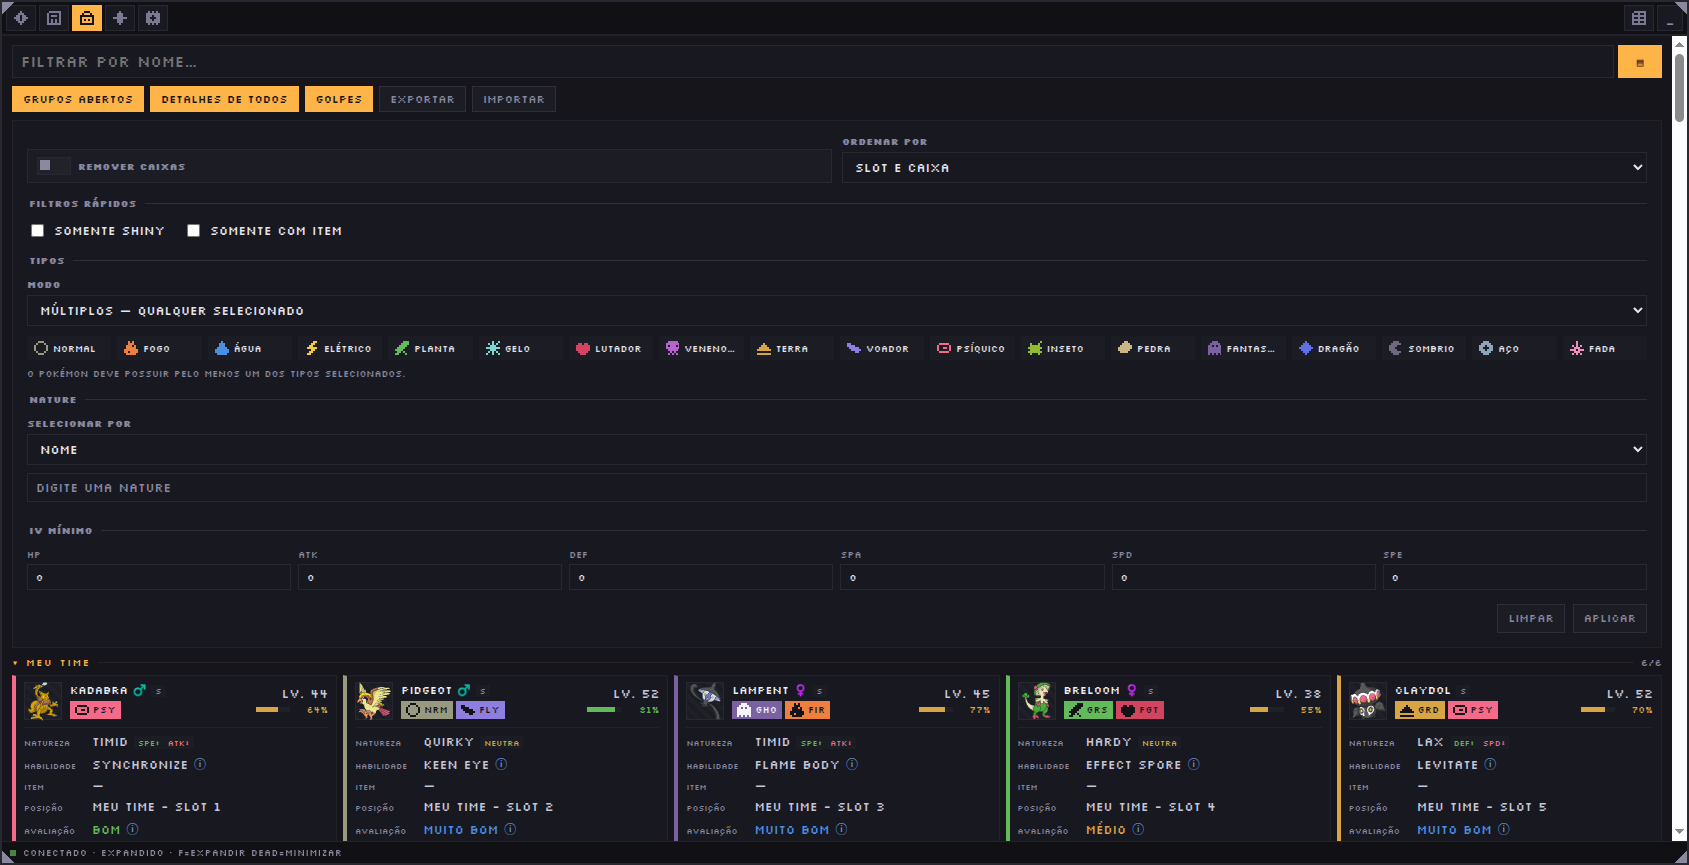
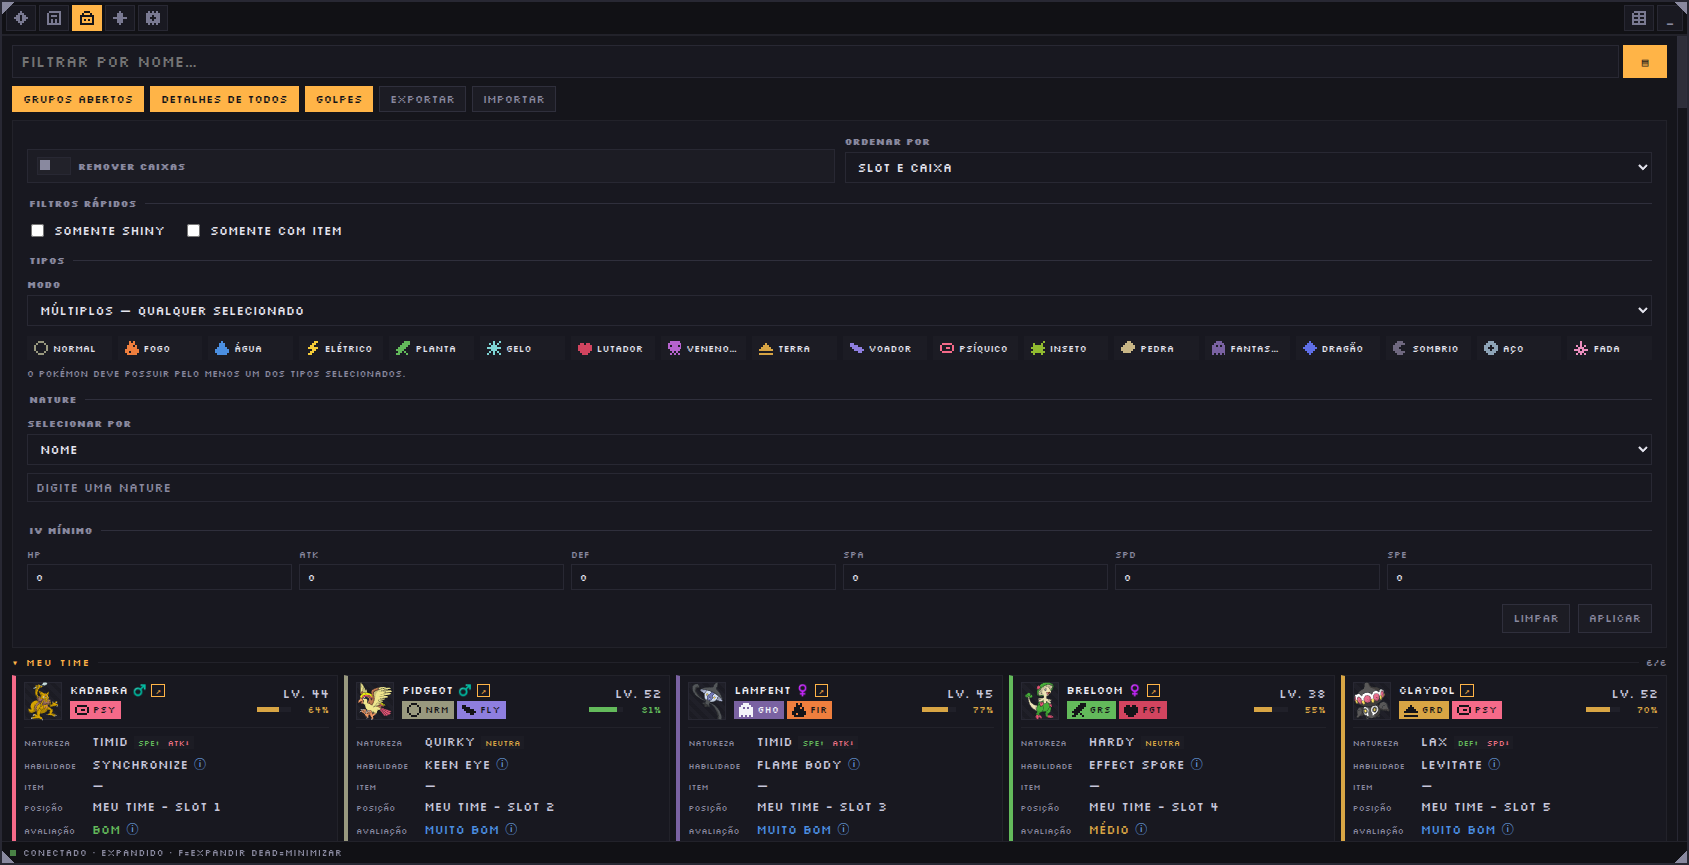
feat(encontro): link do Smogon também no oponente, com ícone visível
O selo antigo era um "S" cinza de 8px sem borda: passava por sujeira de
renderização e não era encontrado. Vira um botão ↗ com borda âmbar, e o
estilo sai do CSS do card para o pixel-theme, já que agora duas telas usam.

A tela de Encontro ganha o mesmo botão ao lado do nome do oponente — é
onde ele mais serve: dá para conferir no meio da luta o que aquela espécie
costuma carregar antes de decidir se vale capturar. Configuração própria
em TELAS → BATALHA, ligada por padrão, como a de Meus Pokémon.

Markup e tooltip vêm de PokemonTransfer.smogonLinkHTML() para as duas
telas não divergirem, com tooltip descritivo e aria-label.

O guard do chat na capa passou a distinguir três casos: painel achado
(recorta), chat fechado (não há o que recortar) e heurística quebrada com
o chat aberto (falha). Antes ele tratava chat fechado como falha.

diff --git a/scripts/screenshots.js b/scripts/screenshots.js
@@ -311,25 +311,34 @@ leilão ainda tem essa linha antes de seguir.`);
     });
     await wait(game, 700);
     await semTooltip(game);
-    // recorta o painel de chat: são nomes e mensagens de outros jogadores,
-    // que não têm por que ir para um README público
-    const clip = await game.evaluate(() => {
+    // O chat traz nomes e mensagens de outros jogadores e não pode ir para um
+    // README público. Três situações, e só uma delas permite seguir em silêncio:
+    // painel achado (recorta), chat fechado (nada a recortar), e nenhum dos dois
+    // (a heurística quebrou — aí falhar é melhor que publicar).
+    const capa = await game.evaluate(() => {
         const chat = [...document.querySelectorAll('div')].find((el) => {
             const r = el.getBoundingClientRect();
             return r.width > 200 && r.width < 500 && r.height > 500 && r.left > innerWidth * 0.7;
         });
-        return chat
-            ? { x: 0, y: 0, width: Math.round(chat.getBoundingClientRect().left), height: innerHeight }
-            : null;
+        if (chat) {
+            return { modo: 'recortado', clip: { x: 0, y: 0, width: Math.round(chat.getBoundingClientRect().left), height: innerHeight } };
+        }
+        // marcadores do chat do jogo: cabeçalho e abas de canal
+        const aberto = /\bCHAT\b|GLOBAL\s+LOCAL|SUSSURRO/i.test(document.body.innerText);
+        return { modo: aberto ? 'incerto' : 'chat-fechado', clip: null };
     });
-    // sem recorte confiável, é melhor falhar do que publicar o chat: a
-    // heurística depende do layout do jogo e não pode degradar em silêncio
-    if (!clip) {
-        throw new Error(`não localizei o painel de chat para recortar da capa.
+    if (capa.modo === 'incerto') {
+        throw new Error(`o chat do jogo está aberto, mas não localizei o painel para recortar.
 Publicar a tela inteira exporia nomes e mensagens de outros jogadores.
-Ajuste a heurística de recorte ou capture a capa à mão com o chat fechado.`);
+Feche o chat no jogo e rode de novo, ou ajuste a heurística de recorte.`);
     }
-    await game.screenshot({ path: path.join(OUT, 'capa-overlay.png'), clip });
+    if (capa.modo === 'chat-fechado') {
+        log.push('capa-overlay.png: chat fechado no jogo, capturada sem recorte');
+    }
+    await game.screenshot({
+        path: path.join(OUT, 'capa-overlay.png'),
+        ...(capa.clip ? { clip: capa.clip } : {})
+    });
     feitos.push('capa-overlay.png');
 
     // ---- Configurações --------------------------------------------------

diff --git a/components/settings-panel.js b/components/settings-panel.js
@@ -52,7 +52,7 @@ function buildSettingsPanel(shell) {
                 <span class="ph-setting-label" id="ph-mp-pokemon-label">Pokémon já expandidos</span>
                 <button type="button" class="ph-toggle" id="ph-mp-pokemon" role="switch" aria-checked="false" aria-labelledby="ph-mp-pokemon-label"></button>
             </div>
-            <div class="ph-setting-row" data-tip="Selo S no cartão, abre o Pokémon no Smogon em outra aba.">
+            <div class="ph-setting-row" data-tip="Botão ↗ no cartão, abre o Pokémon no Smogon em outra aba.">
                 <span class="ph-setting-label" id="ph-mp-smogon-label">Link do Smogon</span>
                 <button type="button" class="ph-toggle" id="ph-mp-smogon" role="switch" aria-checked="true" aria-labelledby="ph-mp-smogon-label"></button>
             </div>
@@ -80,6 +80,10 @@ function buildSettingsPanel(shell) {
             <div class="ph-setting-row">
                 <span class="ph-setting-label" id="ph-bt-mymoves-label">Seus golpes</span>
                 <button type="button" class="ph-toggle" id="ph-bt-mymoves" role="switch" aria-checked="true" aria-labelledby="ph-bt-mymoves-label"></button>
+            </div>
+            <div class="ph-setting-row" data-tip="Botão ↗ ao lado do nome do oponente, abre a página dele no Smogon.">
+                <span class="ph-setting-label" id="ph-bt-smogon-label">Link do Smogon</span>
+                <button type="button" class="ph-toggle" id="ph-bt-smogon" role="switch" aria-checked="true" aria-labelledby="ph-bt-smogon-label"></button>
             </div>
             <div class="ph-set-head">ATALHOS</div>
             <div class="ph-shortcut-grid" id="ph-shortcut-grid"></div>
@@ -491,7 +495,8 @@ function buildSettingsPanel(shell) {
             const battleToggles = [
                 ['ph-bt-stats', 'showIvs'], ['ph-bt-weak', 'showWeaknesses'],
                 ['ph-bt-moves', 'showFoeMoves'], ['ph-bt-balls', 'showPokeballs'],
-                ['ph-bt-stages', 'showStatChanges'], ['ph-bt-mymoves', 'showMyMoves']
+                ['ph-bt-stages', 'showStatChanges'], ['ph-bt-mymoves', 'showMyMoves'],
+                ['ph-bt-smogon', 'showSmogonLink']
             ];
             battleToggles.forEach(([id, field]) => {
                 bindPrefToggle(id, prefs.screens.battle[field],

diff --git a/myPokemons.js b/myPokemons.js
@@ -365,13 +365,11 @@ function renderIvDetails(viewModel) {
     return PokemonCard.ivGrid(viewModel);
 }
 
-// selo discreto ao lado do nome. Vive dentro do <button> do cartão, então não
-// pode ser uma âncora: o clique é tratado pelo delegador de #content.
+// selo ao lado do nome; markup e tooltip vêm de PokemonTransfer para não
+// divergir do mesmo selo na tela de Encontro
 function renderSmogonLink(viewModel) {
     if (!SCREEN_PREFS.showSmogonLink) return '';
-    const url = PokemonTransfer.smogonUrl(viewModel.name);
-    if (!url) return '';
-    return `<span class="smogon-link" role="link" tabindex="0" data-smogon="${escapeHtml(url)}" data-tip="Abrir no Smogon — build, stats e estratégias">S</span>`;
+    return PokemonTransfer.smogonLinkHTML(viewModel.name);
 }
 
 function renderMoveDetails(viewModel) {
@@ -695,7 +693,7 @@ function bindControls() {
     content.addEventListener('click', (event) => {
         // antes do cartão: o selo fica dentro do <button>, e sem parar aqui o
         // clique também expandiria/recolheria os detalhes
-        const smogon = event.target.closest('.smogon-link');
+        const smogon = event.target.closest('.px-extlink');
         if (smogon) {
             event.preventDefault();
             event.stopPropagation();
@@ -724,7 +722,7 @@ function bindControls() {
 
     content.addEventListener('keydown', (event) => {
         if (event.key !== 'Enter' && event.key !== ' ') return;
-        const smogon = event.target.closest?.('.smogon-link');
+        const smogon = event.target.closest?.('.px-extlink');
         if (!smogon) return;
         event.preventDefault();
         event.stopPropagation();

diff --git a/battle.js b/battle.js
@@ -443,6 +443,7 @@ function render() {
                 <span class="enc-name">${escapeHtml(foe.name || foe.species)}</span>
                 <span class="enc-level">Lv${foe.level ?? '-'}</span>${gender}
                 ${foe.shiny ? '<span class="best-badge badge-stab" data-tip="Shiny!">★</span>' : ''}
+                ${SCREEN_PREFS.showSmogonLink ? PokemonTransfer.smogonLinkHTML(foe.name || foe.species) : ''}
             </div>
             <div class="enc-types">${foeTypes.map((type) => typeTagHTML(type)).join('')}</div>
             <div class="enc-hp">
@@ -547,11 +548,27 @@ window.addEventListener('message', (event) => {
 });
 
 document.getElementById('content').addEventListener('click', (event) => {
+    const externo = event.target.closest('.px-extlink');
+    if (externo) {
+        event.preventDefault();
+        event.stopPropagation();
+        window.open(externo.dataset.smogon, '_blank', 'noopener');
+        return;
+    }
     const btn = event.target.closest('[data-action="toggle-move"]');
     if (!btn) return;
     const slug = btn.dataset.slug;
     if (openMoves.has(slug)) openMoves.delete(slug); else openMoves.add(slug);
     render();
+});
+
+document.getElementById('content').addEventListener('keydown', (event) => {
+    if (event.key !== 'Enter' && event.key !== ' ') return;
+    const externo = event.target.closest?.('.px-extlink');
+    if (!externo) return;
+    event.preventDefault();
+    event.stopPropagation();
+    window.open(externo.dataset.smogon, '_blank', 'noopener');
 });
 
 chrome.storage.onChanged.addListener((changes, areaName) => {

diff --git a/components/pokemon-transfer.js b/components/pokemon-transfer.js
@@ -152,6 +152,23 @@ var PokemonTransfer = globalThis.PokemonTransfer || (() => {
         return slug ? `${SMOGON_BASE}${slug}/` : null;
     }
 
+    // Markup do selo, compartilhado por Meus Pokémon e Encontro para as duas
+    // telas não divergirem em ícone, tooltip ou comportamento. O href entra no
+    // data-* e não precisa de escape: o slug só tem [a-z0-9-].
+    // Não é <a> de propósito — nos dois lugares ele vive dentro de um <button>,
+    // e âncora aninhada é HTML inválido; quem abre é o delegador de clique.
+    const escapeHtml = (valor) => String(valor ?? '').replace(/[&<>'"]/g, (c) => ({
+        '&': '&amp;', '<': '&lt;', '>': '&gt;', "'": '&#39;', '"': '&quot;'
+    }[c]));
+
+    function smogonLinkHTML(name) {
+        const url = smogonUrl(name);
+        if (!url) return '';
+        // o nome vem do payload do jogo e entra num atributo — precisa de escape
+        const dica = `Abrir ${escapeHtml(name)} no Smogon — builds, distribuição de EVs, natures e papéis competitivos recomendados. Abre em outra aba.`;
+        return `<span class="px-extlink" role="link" tabindex="0" data-smogon="${url}" data-tip="${dica}" aria-label="${dica}">↗</span>`;
+    }
+
     return Object.freeze({
         FORMAT,
         VERSION,
@@ -160,6 +177,7 @@ var PokemonTransfer = globalThis.PokemonTransfer || (() => {
         filename,
         smogonSlug,
         smogonUrl,
+        smogonLinkHTML,
         countPokemon
     });
 })();

diff --git a/pixel-theme.css b/pixel-theme.css
@@ -71,6 +71,18 @@
     cursor: pointer;
 }
 .px-btn.active { background: var(--px-accent); border-color: var(--px-accent); color: var(--px-on-dark); }
+
+/* Link externo compacto (hoje: Smogon), usado no cartão de Meus Pokémon e no
+   cabeçalho do Encontro. Vive dentro de um <button> nos dois casos, então é um
+   <span role="link"> tratado por delegação — âncora aninhada seria inválida.
+   Fica aqui, e não no CSS de um componente, porque as duas telas o usam. */
+.px-extlink {
+    flex: 0 0 auto; display: inline-flex; align-items: center; justify-content: center;
+    font-family: var(--px-font-mono); font-size: 9px; line-height: 1;
+    padding: 1px 3px; border: 1px solid var(--px-accent);
+    background: transparent; color: var(--px-accent); cursor: pointer;
+}
+.px-extlink:hover, .px-extlink:focus-visible { background: var(--px-accent); color: var(--px-on-dark); }
 .px-btn.px-btn-accent { color: var(--px-accent); }
 .px-btn:disabled, .px-btn[aria-disabled="true"] { opacity: .4; cursor: not-allowed; }
 

diff --git a/components/pokemon-card.css b/components/pokemon-card.css
@@ -8,11 +8,6 @@
 .pokemon-gender-f { color: var(--px-female); }
 .pokemon-gender-m { color: var(--px-male); }
 .pokemon-chips { display: flex; gap: 3px; }
-/* selo do Smogon: vive dentro do <button> do cartão, então é um span com
-   role="link" tratado pelo delegador de clique — âncora aninhada seria HTML
-   inválido */
-.smogon-link { flex: 0 0 auto; font-family: var(--px-font-mono); font-size: 8px; line-height: 1; padding: 2px 4px; background: var(--px-bg-btn2); color: var(--px-text-dim); cursor: pointer; }
-.smogon-link:hover, .smogon-link:focus-visible { color: var(--px-accent); }
 .pokemon-right { text-align: right; display: flex; flex-direction: column; gap: 3px; align-items: flex-end; }
 .pokemon-level { font-size: 12px; color: var(--px-text-val); }
 .pokemon-ivbar { display: flex; align-items: center; gap: 4px; }

diff --git a/battle.html b/battle.html
@@ -111,6 +111,7 @@
     <script src="components/catch-rate.js"></script>
     <script src="components/pixel-icon.js"></script>
     <script src="components/type-tag.js"></script>
+    <script src="components/pokemon-transfer.js"></script>
     <script src="components/type-chart-data.js"></script>
     <script src="data/move-types.js"></script>
     <script src="data/move-status.js"></script>

diff --git a/data/extension-storage.js b/data/extension-storage.js
@@ -69,7 +69,8 @@ var PokemonHelperStorage = globalThis.PokemonHelperStorage || (() => {
                 showFoeMoves: true,
                 showPokeballs: true,
                 showIvs: true,
-                showMyMoves: true
+                showMyMoves: true,
+                showSmogonLink: true
             })
         })
     });

diff --git a/README.md b/README.md
@@ -161,6 +161,15 @@ Mostrada assim que há um oponente capturado numa batalha.
 - Seção **Seus golpes** (ocultável) — golpes disponíveis para usar no turno,
   com PP restante; some quando o Pokémon é capturado.
 - Badge **GOTCHA** — substitui a seção de golpes quando a captura dá certo.
+- Botão **↗** ao lado do nome do oponente — abre a página dele no
+  [Smogon](https://www.smogon.com/dex/sm/) em outra aba, na dex da geração
+  SM. Serve para checar rapidamente, no meio do encontro, o que aquele
+  Pokémon costuma carregar: builds usadas, distribuição de EVs, natures
+  recomendadas e o papel competitivo dele. Útil principalmente contra
+  espécies que você ainda não conhece, para decidir se vale a pena capturar
+  e como treinar depois. Pode ser desligado em Configurações → TELAS →
+  BATALHA. O mesmo botão aparece nos cards de
+  [Meus Pokémon](#meus-pokémon).
 
 ![Aba Encontro mostrando dados do oponente](docs/images/aba-encontro.png)
 
@@ -209,13 +218,14 @@ Mostrada assim que há um oponente capturado numa batalha.
 - Botões **EXPORTAR** e **IMPORTAR** — veja
   [Exportar e importar a lista](#exportar-e-importar-a-lista).
 - Card de Pokémon (colapsável): sprite, nome, gênero, indicador de shiny
-  (✨), selo **S** do Smogon, chips de tipo, nível e barra de IV total.
+  (✨), botão **↗** do Smogon, chips de tipo, nível e barra de IV total.
   Expandido, mostra natureza, habilidade (com tooltip), item, posição,
   avaliação, atq principal, grade de IVs por stat (com barra colorida por
   atributo) e a lista de golpes conhecidos.
-- Selo **S** — abre o Pokémon no
-  [Smogon](https://www.smogon.com/dex/sm/) em outra aba, para consultar
-  build, stats e estratégias. Pode ser desligado em Configurações → TELAS.
+- Botão **↗** — abre aquele Pokémon no
+  [Smogon](https://www.smogon.com/dex/sm/) em outra aba. O mesmo botão existe
+  na aba Encontro; veja [Encontro](#encontro) para o que ele serve. Pode ser
+  desligado em Configurações → TELAS.
 - Contador por grupo: "visíveis/total" com filtro ativo, ou
   "ocupados/capacidade" sem filtro.
 - Painel de filtros avançados (botões **Limpar** e **Aplicar**):
@@ -325,7 +335,7 @@ Cinco blocos, nesta ordem na tela.
 - **Pokémon já expandidos** (padrão desligado) — cards nascem com os
   detalhes abertos na primeira carga da tela (toggles manuais depois têm
   prioridade).
-- **Link do Smogon** (padrão ligado) — mostra o selo **S** no card, que abre
+- **Link do Smogon** (padrão ligado) — mostra o botão **↗** no card, que abre
   o Pokémon no Smogon em outra aba. A mudança vale na hora, sem recarregar.
 
 *Batalha* (todos ligados por padrão) — mostram/ocultam seções da aba
@@ -336,6 +346,7 @@ Encontro:
 - **Pokébolas**
 - **Atributos alterados**
 - **Seus golpes**
+- **Link do Smogon** — o botão **↗** ao lado do nome do oponente
 
 **ATALHOS**
 - Um botão por ação, mostrando a combinação atual. Clicar entra em modo de
